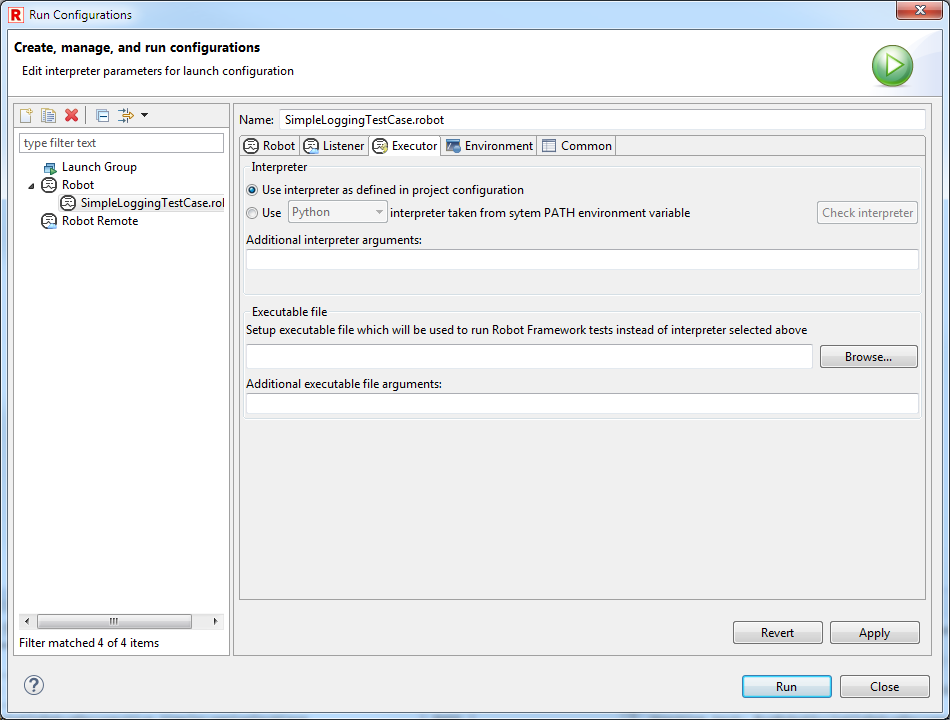
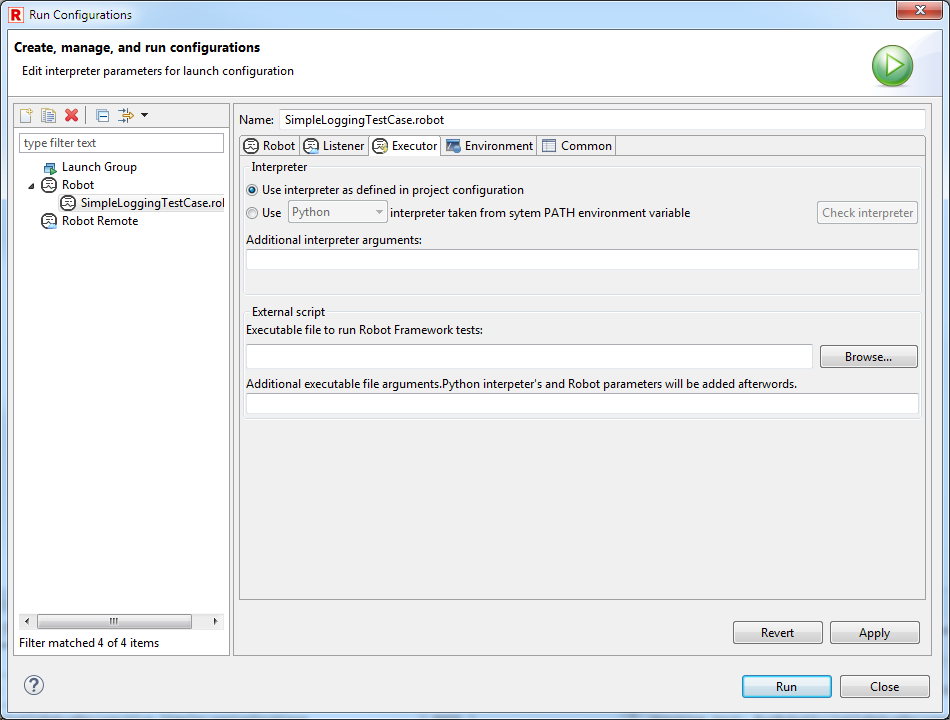
removed local_config_exec_script.png , local_config_exec.png will be used instead. updated local_launch_scripting.html help page with new text labels

Changed region(s): [[0.2747, 0.4278, 0.8547, 0.4889], [0.4579, 0.5194, 0.8547, 0.55]]

diff --git a/src/Eclipse-IDE/org.robotframework.ide.eclipse.main.plugin.doc.user/doc/user_guide/launching/local_launch_scripting.html b/src/Eclipse-IDE/org.robotframework.ide.eclipse.main.plugin.doc.user/doc/user_guide/launching/local_launch_scripting.html
@@ -18,7 +18,7 @@
 	</p>
 	
 	<div class="code"><code>
-	python.exe -m robot.run --suite mySuite c:\\location\\to\\project
+	python.exe -m robot.run --suite mySuite &lt;path to project&gt;
 	</code></div>
 	
 	<p>but when script <code>my_script.bat</code> with arguments <code>arg1</code>, <code>arg2</code> is
@@ -26,7 +26,7 @@
 	</p>
 	
 	<div class="code"><code>
-	my_script.bat arg1 arg2 python.exe -m robot.run --suite mySuite c:\\location\\to\\project
+	my_script.bat arg1 arg2 python.exe -m robot.run --suite mySuite &lt;path to project&gt;
 	</code></div>
 	
 	<p>The script is now free to process the arguments which were passed - it may use them or not, or
@@ -38,7 +38,7 @@
 	   <dd>By default, RED passes Robot executable command line to user script as is thus each space separated entry is own parameter.
        From above example, following Robot command line passed to script by RED:
        	<div class="code"><code>
-            python.exe -m robot.run --suite mySuite c:\\location\\to\\project
+            python.exe -m robot.run --suite mySuite &lt;path to project&gt;
         </code></div>
         is passed to a user script as 6 arguments. This can be changed in <a href="launch_prefs.html">preferences</a>, so whole Robot executable command line is wrapped with quotation marks. This affects how script handles input parameters.
 	   </dd>
@@ -47,10 +47,10 @@
     
 	<h3>Defining script call in launch configuration</h3>
 	
-	<p>Script/executable to be used when launching is defined in launch configuration dialog at <b>Executor</b> tab:</p>
-	<img src="images/local_config_exec_script.png"/>
+	<p>Script/executable to be used when launching is defined in launch configuration dialog in <b>Executor</b> tab under <b>External script</b> part:</p>
+	<img src="images/local_config_exec.png"/>
 	
-	<p>In first field an executable has to be chosen from local system. Under Windows this may be <code>.exe</code>,
+	<p><b>Executable file</b> field is path to executable file from local system. Under Windows this may be <code>.exe</code>,
 	<code>.bat</code> or <code>.com</code> file. Under Linux this may be any binary executable, but also 
 	any text script file which contains 
 	<a class="external" target="_blank" href="https://en.wikipedia.org/wiki/Shebang_(Unix)" target="_blank" class="external" >shebang</a> line - just 
@@ -58,7 +58,7 @@
 	execute it.
 	</p>
 	
-	<p>In second line any arguments which are required by the script can be passed.</p>
+	<p><b>Additional executable file arguments</b> holds any arguments which are required by the script.</p>
 
 	<dl class="note">
 	   <dt>Note</dt>
@@ -76,7 +76,17 @@
 	   <dd>User scipts examples can be found at <a href="https://github.com/nokia/RED/tree/master/src/RobotUserScripts" target="_blank" class="external" >https://github.com/nokia/RED/tree/master/src/RobotUserScripts</a>.
 	   </dd>
 	</dl>
-	<p>We'll use simple python script which will be used to launch tests:</p>
+    
+    <p>Windows batch example:</p>
+    <div class="code"<code>
+    @ECHO OFF</br>
+    echo running scripts with external batch file</br>
+    echo script name: %0</br>
+    echo script's arguments: %*</br>
+    echo running arguments as they consist call to start python scripts:</br>
+    %*</br>
+    </code></div>
+	<p>Python script example:</p>
 	
 	<div class="code"><code>
 	import sys<br/>
